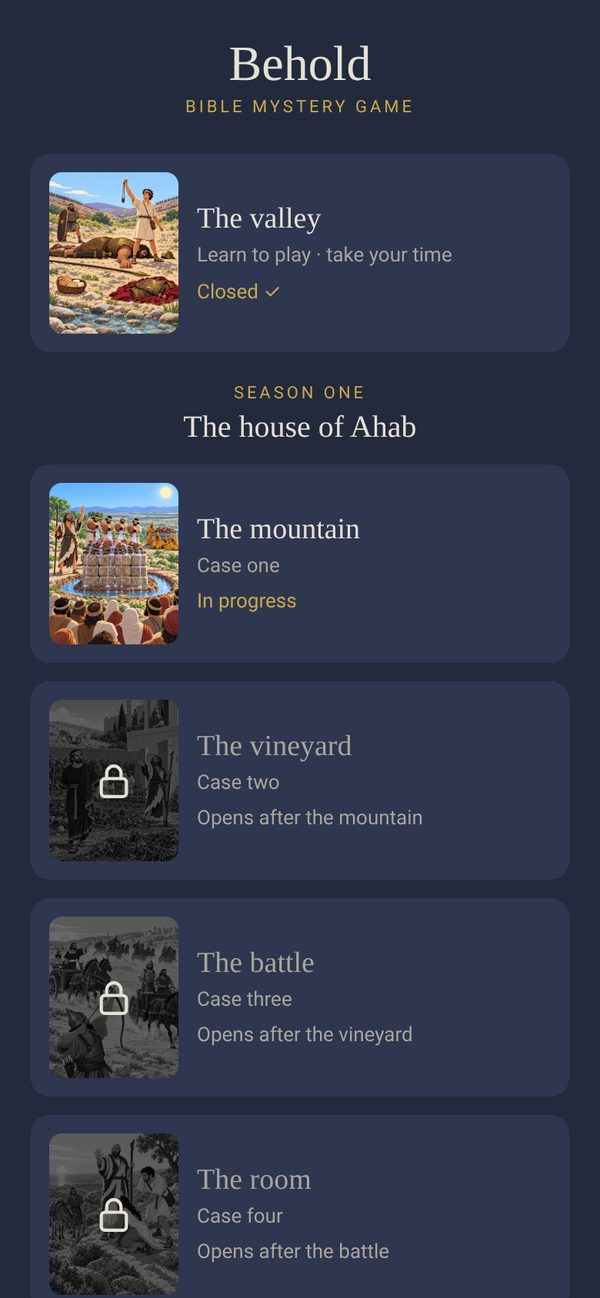
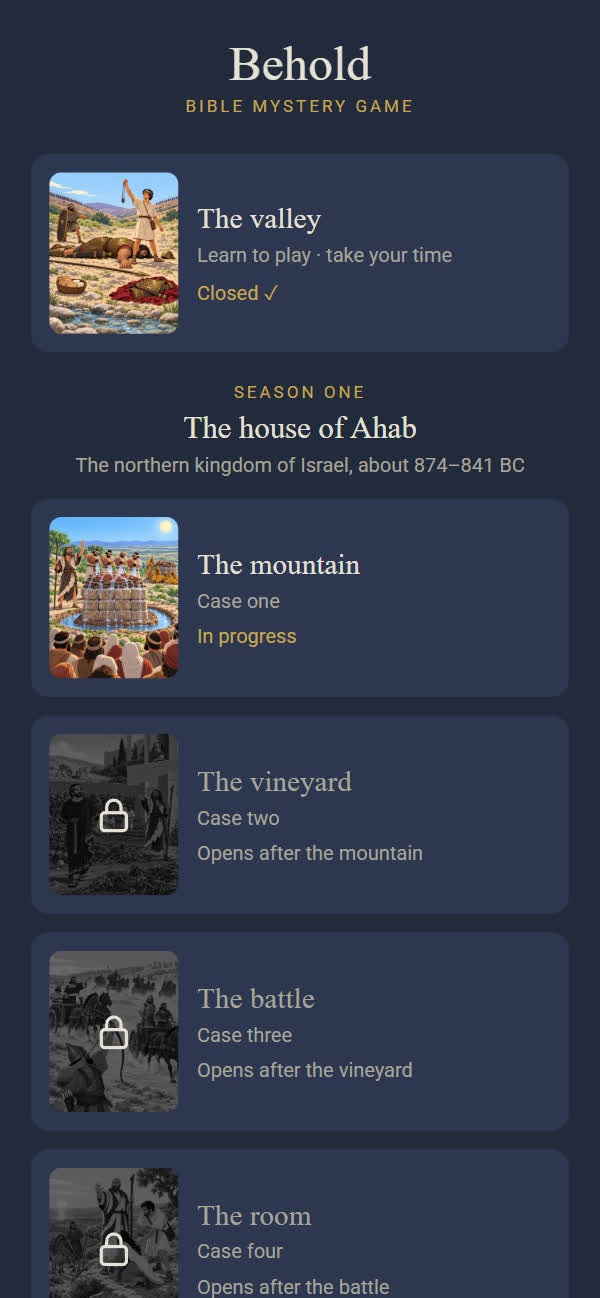
Deploy garishay/behold@3c1073f79dd878d5499a9e857ba0699155ab8866

diff --git a/index.html b/index.html
@@ -57,7 +57,7 @@
 })("home", "https://behold-counts.garishay.workers.dev")</script>
 <link rel="icon" href="icons/favicon-48.png?v=3595e1d1">
 <link rel="apple-touch-icon" href="icons/apple-touch-icon-180.png?v=2587e3fe">
-<link rel="stylesheet" href="site.css?v=f3413c42">
+<link rel="stylesheet" href="site.css?v=a8a1a55c">
 <script src="look.js?v=7da460b2" defer></script>
 <script src="fall.js?v=edd2ebed" defer></script>
 </head>
@@ -80,7 +80,7 @@
 <section class="what">
 <h2>Behold is a mystery game set in the stories of the Bible.</h2>
 <div>
-<p>Each case is a passage: you study the pictures of its moments, work out who is who and what happened, and fill the blanks of the account in the game’s own words — then the reveal shows the text itself.</p>
+<p>Each case is a passage: you study the pictures of its moments, work out who is who and what happened, and fill the blanks of the account in the game’s own words — then the reveal shows the text itself, with a map of where it happened.</p>
 <p class="dim">You don’t need to remember the story. Everything you need is in the picture.</p>
 <a class="more" href="how-it-plays/"><span class="title">Look. Solve. Close the case.</span>
 <span class="sub">See how it plays</span></a>
@@ -89,6 +89,7 @@
 <section class="season">
 <p class="kicker">Season one</p>
 <h2>The house of Ahab</h2>
+<p class="era">The northern kingdom of Israel, about 874–841 BC</p>
 <p class="intro">Season one follows one story through 1 and 2 Kings, in order. <span>Start with the valley. It teaches the game.</span></p>
 <div class="bible" aria-hidden="true">
 <img src="img/bible.webp?v=54a8f620" alt="" width="1326" height="746" loading="lazy">

diff --git a/about/index.html b/about/index.html
@@ -57,7 +57,7 @@
 })("about", "https://behold-counts.garishay.workers.dev")</script>
 <link rel="icon" href="../icons/favicon-48.png?v=3595e1d1">
 <link rel="apple-touch-icon" href="../icons/apple-touch-icon-180.png?v=2587e3fe">
-<link rel="stylesheet" href="../site.css?v=f3413c42">
+<link rel="stylesheet" href="../site.css?v=a8a1a55c">
 </head>
 <body>
 <header class="top">
@@ -76,7 +76,7 @@
 <p>One of us loves games, and the other doesn’t play them at all. When we went looking for a Bible game worth playing, we found trivia and word puzzles full of ads. So we started making one that works for both of us: a game that asks you to look closely at a passage until you understand what happened.</p>
 <p>We make it for people who are seeking God, for Christians who want to know the Bible more closely, and for our son, when he’s old enough to play.</p>
 <h2>How it’s made</h2>
-<p>Every case is a real passage of the Bible. Its pictures are made with AI from written scene briefs, then checked against the passage. Everything you read in a case is in the game’s own words, and the reveal shows the passage itself, in the NIV.</p>
+<p>Every case is a real passage of the Bible. Its pictures are made with AI from written scene briefs, then checked against the passage. The season’s ending is read by an AI voice. Everything you read in a case is in the game’s own words, and the reveal shows the passage itself, in the NIV.</p>
 <p class="dim">Behold is free, with no ads and no accounts, and it collects nothing that says who you are.</p>
 <h2>Say hello</h2>
 <p>Write to us at <a href="mailto:hello@beholdgame.com">hello@beholdgame.com</a>.</p>

diff --git a/how-it-plays/index.html b/how-it-plays/index.html
@@ -57,7 +57,7 @@
 })("how-it-plays", "https://behold-counts.garishay.workers.dev")</script>
 <link rel="icon" href="../icons/favicon-48.png?v=3595e1d1">
 <link rel="apple-touch-icon" href="../icons/apple-touch-icon-180.png?v=2587e3fe">
-<link rel="stylesheet" href="../site.css?v=f3413c42">
+<link rel="stylesheet" href="../site.css?v=a8a1a55c">
 </head>
 <body>
 <header class="top">
@@ -89,11 +89,11 @@
 <p class="dim">Name who is who, put the pictures in story order, and fill the account’s blanks with the words you found.</p>
 </li>
 <li>
-<div class="screen"><img src="../img/screen-cases.jpg?v=fcb3b11b" alt="The cases page: the valley closed, the mountain in progress, the cases after it waiting their turn"
+<div class="screen"><img src="../img/screen-cases.jpg?v=aac58472" alt="The cases page: the valley closed, the mountain in progress, the cases after it waiting their turn"
   width="600" height="1298" loading="lazy"></div>
 <p class="kicker">3 · Close the case</p>
 <h2>Read what happened</h2>
-<p class="dim">When it all fits, close the case and read the passage itself. Then the next case opens.</p>
+<p class="dim">When it all fits, close the case, see where it happened on a map, and read the passage itself. Then the next case opens.</p>
 </li>
 </ol>
 <div class="hint">

diff --git a/site.css b/site.css
@@ -389,6 +389,16 @@ main,
   line-height: 1.15;
 }
 
+/* The season's era under its name, the game's own line (#87), set as the game's header sets it,
+   small and dim, a pixel larger under the site's larger name: one line on a 360-wide phone (#241,
+   Gate 58 A1). */
+.season .era {
+  margin: 6px 0 0;
+  font-size: 14px;
+  line-height: 1.4;
+  color: var(--ink-dim);
+}
+
 .season .intro {
   margin: 10px 0 0;
   font-size: 16px;

diff --git a/support/index.html b/support/index.html
@@ -57,7 +57,7 @@
 })("support", "https://behold-counts.garishay.workers.dev")</script>
 <link rel="icon" href="../icons/favicon-48.png?v=3595e1d1">
 <link rel="apple-touch-icon" href="../icons/apple-touch-icon-180.png?v=2587e3fe">
-<link rel="stylesheet" href="../site.css?v=f3413c42">
+<link rel="stylesheet" href="../site.css?v=a8a1a55c">
 </head>
 <body>
 <header class="top">
